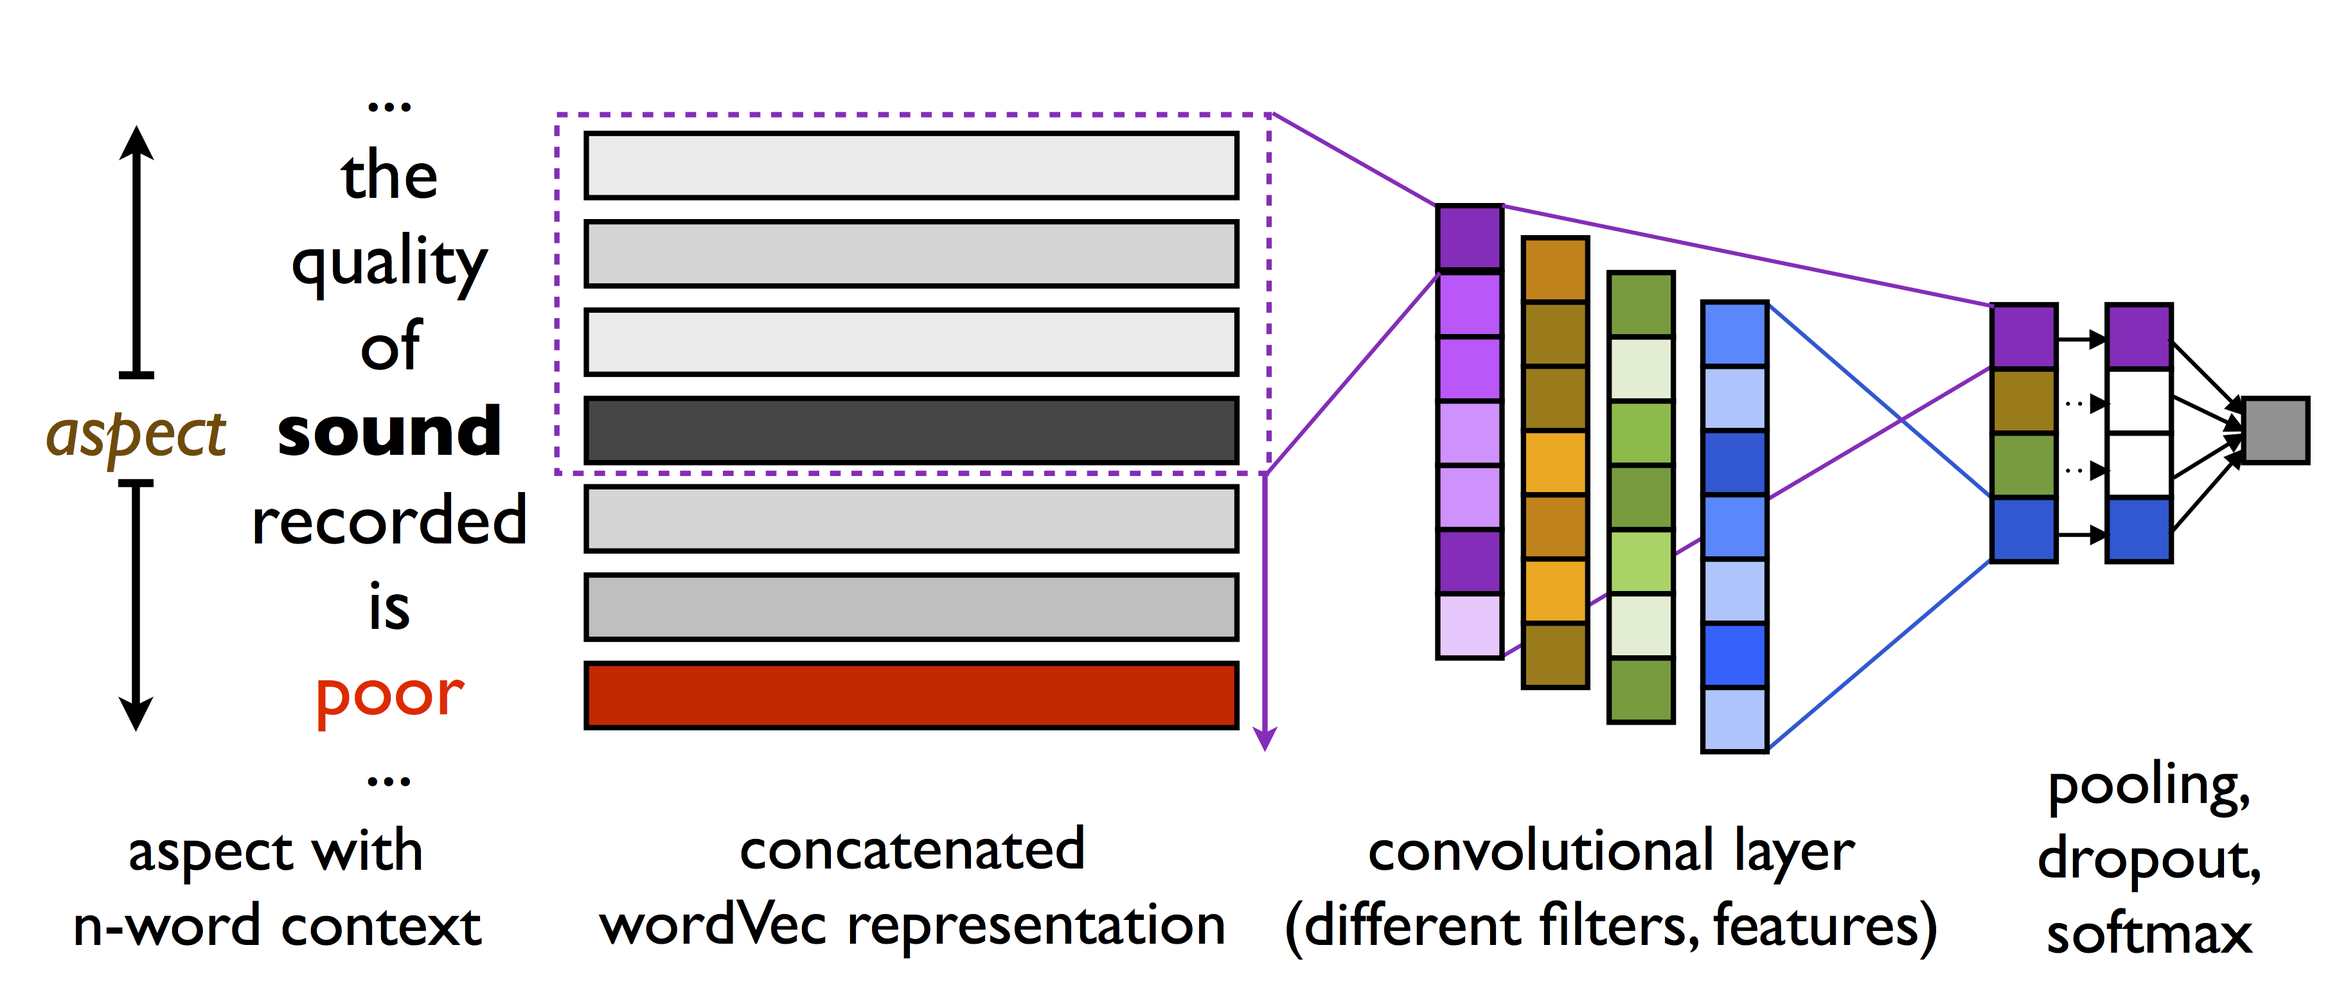
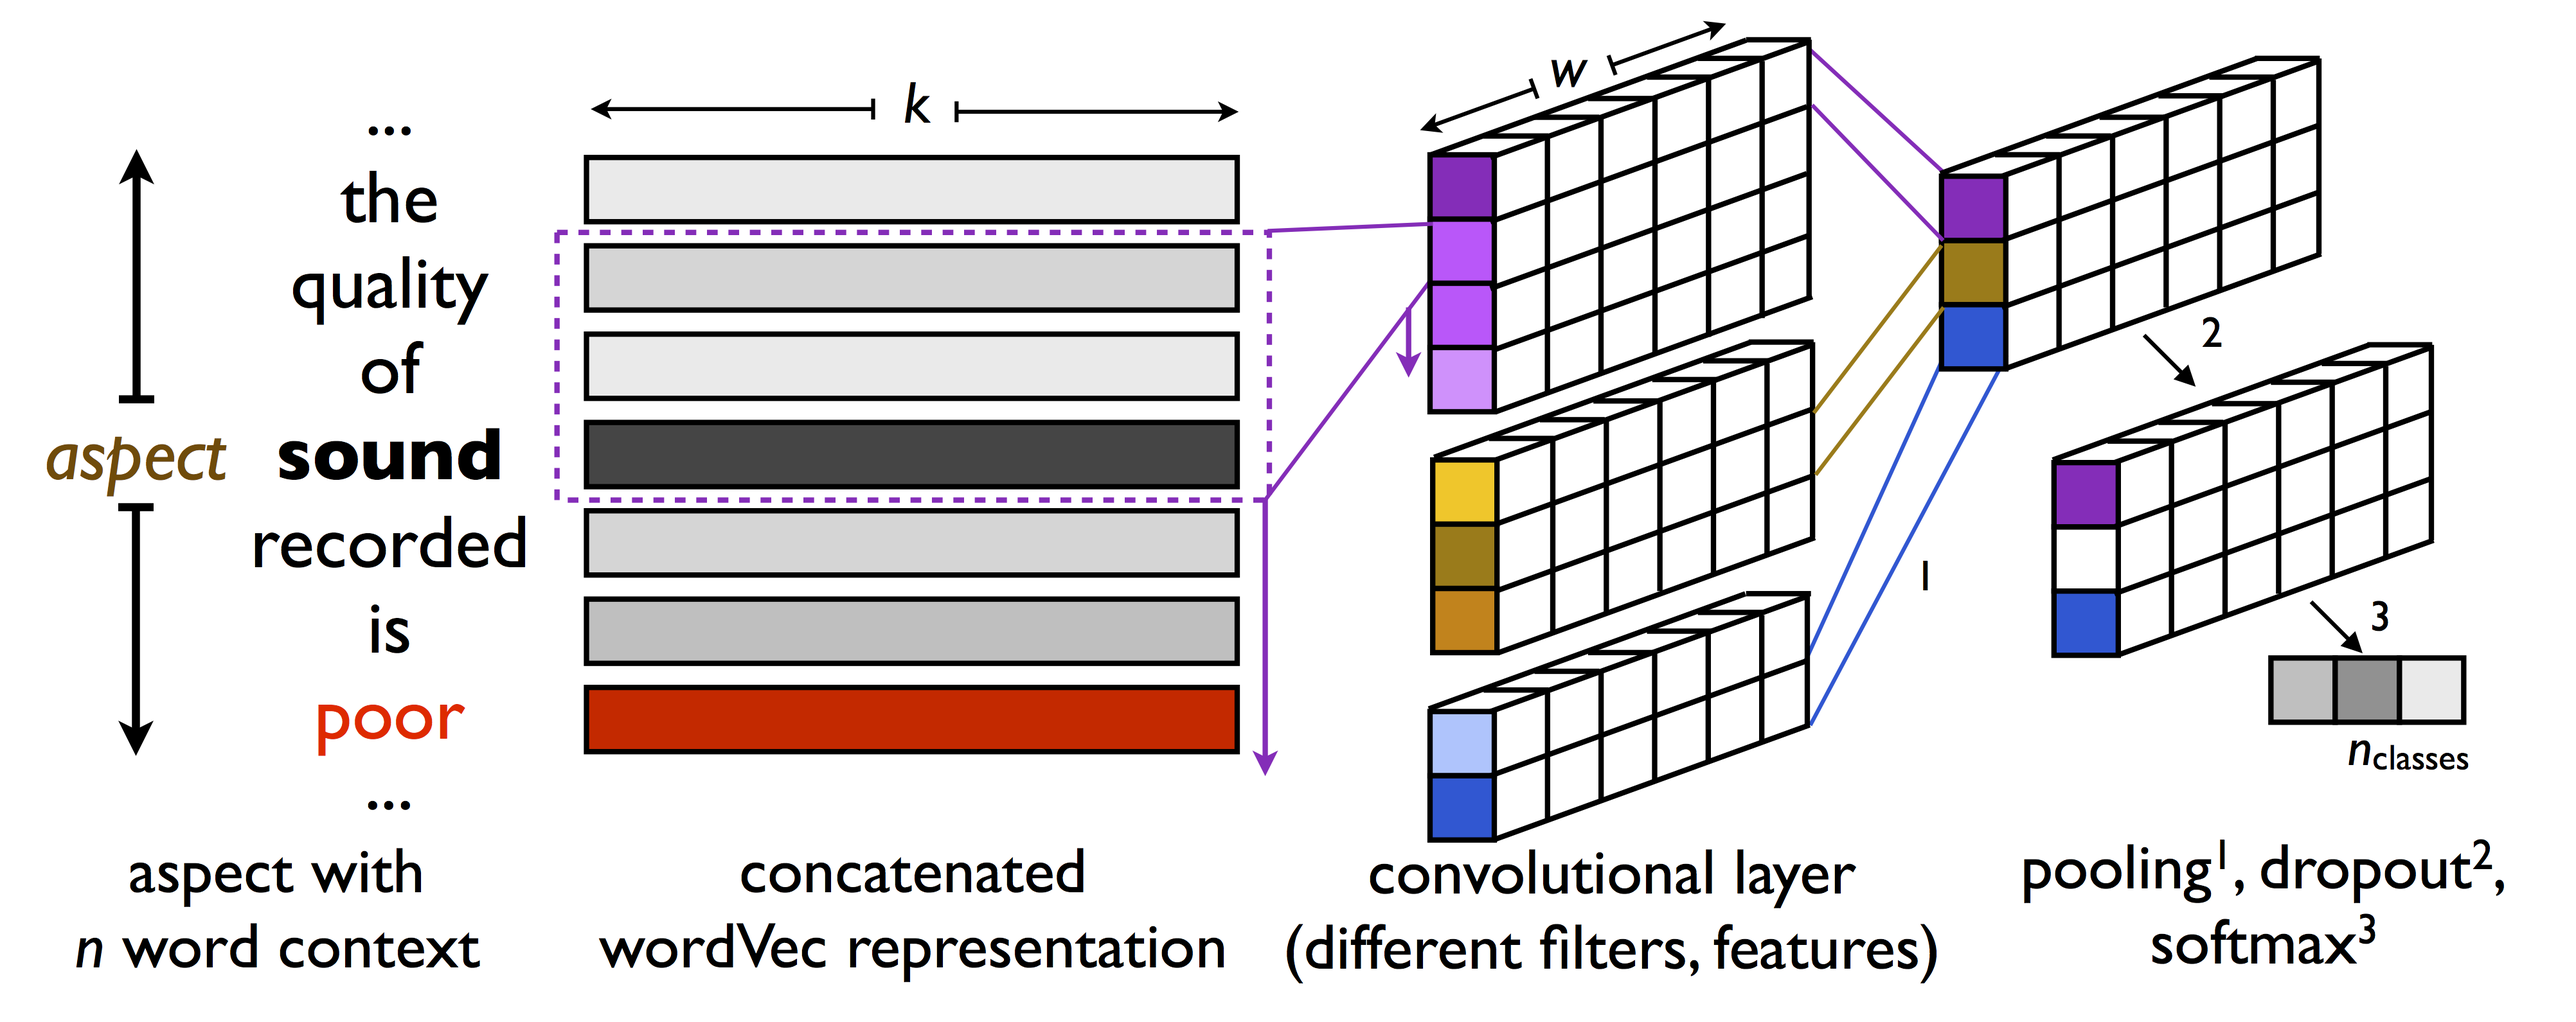
added to final writeup

diff --git a/final_writeup/final.tex b/final_writeup/final.tex
@@ -84,7 +84,7 @@ Our proposed workflow can be divided into two main parts: (unsupervised) {\bf As
 \begin{center}
 \includegraphics[width=.85\columnwidth]{workflow.png}
 \end{center}
-\caption{Proposed Workflow. Boxed items are processes, while non-boxed items are outputs. The left third of the diagram involves converting the reviews into a word vector representation, the middle third details unsupervised aspect discovery, while the right half of the diagram involves aspect-specific sentiment extraction, summarization and visualization.}% Except for the Sentiment Labeling and Visualization processes, every other process involves deep learning.}
+\caption{Proposed Workflow. We first use a word2vec representation to discover new aspects, and to identify aspects in the data. Next, we classify the sentiment of the surrounding context. This generates a labeled dataset on which we train a deep CNN to perform aspect-specific sentiment extraction.}% Except for the Sentiment Labeling and Visualization processes, every other process involves deep learning.}
 \label{workflow}
 \end{figure}
 
@@ -95,7 +95,7 @@ The first part of our workflow involves an unsupervised approach to generating a
 
 \subsubsection{Preprocessing.} We tokenized our corpus using NLTK's punkt tokenizer [9] for sentence splitting. We then removed all non-alphanumerical characters and replaced all digits with \texttt{DG}. Finally, we performed collocation detection to detect common bigrams. We run word2vec (CBOW, Skipgram) to obtain a word vector representation of the data (varying hyper parameters like window size). 
 
-\subsubsection{Seed words and discovery.} We handcrafted a small set of 50 seed attributes from reading a random sample of product reviews. We then used this seed words and our word2vec model representation to discover more via closest cosine similarity.
+\subsubsection{Seed words and discovery.} We handcrafted a small set of 63 seed attributes from reading a random sample of product reviews. We then used these seed aspects and our word2vec model representation to discover more aspects via closest cosine similarity.
 
 \subsubsection{NER Model?}
 
@@ -104,13 +104,12 @@ NER Model architecture
 
 \subsection{Aspect-Specific Sentiment Extraction}
 
-The second half of our workflow involved sentiment analysis given identified aspects. Our intuition for this part stems from locality: if there are multiple sentiment and multiple aspect words, then a good ``heuristic" would be that sentiment words closer to a particular aspect should be attributed to that aspect.
+The second half of our workflow involved sentiment analysis given identified aspects. Our intuition for this part stems from locality: if there are multiple sentiment and multiple aspect words within a sentence, then a good ``heuristic" would be that sentiment words closer to a particular aspect should be attributed to that aspect. Hence, models should be able to make use of local context to help in sentiment attribution.
 
-Convolutional Neural Network Model
+We decided upon a Convolutional Neural Network (CNN) Model based after Kim [10], who reported excellent results in sentence classification on many tasks, including sentiment analysis. We model our architecture, shown in Figure \ref{architecture} on [10].
 
-[10]
 
-An additional step would be to label all unigrams with a sentiment analysis lexicon (Bing Liu's sentiment lexicon) or the Sentiment pipeline in CoreNLP [7]. With the aspect-labels from the previous part, we would have a dataset labeled with aspect and (unigram-) sentiment. Next, we build off and improve on the model in [6]: we will use a RNTN or improved architecture to extract (aspect, aspect-specific sentiment) tuples from the data. Finally, we will have a summarization of aspect-related sentiment via visualization of our output, in terms of a word cloud of important aspects (e.g., sized by word frequency and colored by sentiment). 
+%An additional step would be to label all unigrams with a sentiment analysis lexicon (Bing Liu's sentiment lexicon) or the Sentiment pipeline in CoreNLP [7]. With the aspect-labels from the previous part, we would have a dataset labeled with aspect and (unigram-) sentiment. Next, we build off and improve on the model in [6]: we will use a RNTN or improved architecture to extract (aspect, aspect-specific sentiment) tuples from the data. Finally, we will have a summarization of aspect-related sentiment via visualization of our output, in terms of a word cloud of important aspects (e.g., sized by word frequency and colored by sentiment). 
 
 
 
@@ -119,80 +118,27 @@ An additional step would be to label all unigrams with a sentiment analysis lexi
 \begin{center}
 \includegraphics[width=\columnwidth]{model_architecture.png}
 \end{center}
-\caption{CNN Model Architecture.}
+\caption{CNN Model Architecture, modeled after Kim [10]. The input is an $n$ word context}
 \label{architecture}
 \end{figure}
 
 
 \section{Experimental Results} 
 
-\textbf{Dataset.} The dataset that we used consists of 7.6 million reviews of electronic products from Amazon.com [8]. These reviews comprise 39.4 million sentences. Each review is only labeled with the document-level 5 star rating (which we did not end up using). We focused our attention only on the raw natural language text, which is unlabeled.
+\textbf{Dataset.} The dataset that we used consists of 7.6 million reviews of electronic products from Amazon.com [8]. These reviews comprise 39.4 million sentences. Each review is only labeled with the document-level 5 star rating, which we did not end up using as it was too coarse. We focused our attention only on the raw natural language text, which is unlabeled.
 
 
+\subsection{Aspect Discovery Model Training} 
 
-\subsection{Aspect Discovery}
-
-results
-
-\subsubsection{NER Model?}
-
-NER Model results
-
-
-\subsection{Aspect-Specific Sentiment Extraction}
-
-
-
-
-An additional step would be to label all unigrams with a sentiment analysis lexicon (Bing Liu's sentiment lexicon) or the Sentiment pipeline in CoreNLP [7]. With the aspect-labels from the previous part, we would have a dataset labeled with aspect and (unigram-) sentiment. Next, we build off and improve on the model in [6]: we will use a RNTN or improved architecture to extract (aspect, aspect-specific sentiment) tuples from the data. Finally, we will have a summarization of aspect-related sentiment via visualization of our output, in terms of a word cloud of important aspects (e.g., sized by word frequency and colored by sentiment). 
-
-
-
-\subsection{Model Training} We trained three different word2vec models. The most successful model was trained using the CBOW (continuous bag-of-words) model with a window size of 10 and feature dimension size of 300. We also ignored all words with total frequency count below 40 (this helped to remove many typos). We determined the performance of each model by querying the model with various aspects common to electronic products (e.g. "portability", "screen quality", etc).
+We trained three different word2vec models. The most successful model was trained using the CBOW (continuous bag-of-words) model with a window size of 10 and feature dimension size of 300. We also ignored all words with total frequency count below 40 (this helped to remove many misspellings). We determined the performance of each model by querying the model with various aspects common to electronic products (e.g. "portability", "screen quality", etc).
 
 \subsection{word2vec Results}
-
-
-%\begin{table}[h]
-%\begin{center}
-%\scalebox{0.7}{
-%    \begin{tabular}{ | l | p{9cm} |}
-%    \hline
-%    Query & Results \\ \hline
-%    \texttt{portability} & \texttt{(u'portability,', 0.72859996557235718), (u'compactness', 0.64743077754974365), (u'mobility', 0.60842603445053101), (u'versatility', 0.5763777494430542), (u'simplicity', 0.53962129354476929), (u'lightness', 0.53950369358062744), (u'convenience', 0.53897607326507568), (u'ruggedness', 0.5272858738899231), (u'versatility,', 0.5055851936340332), (u'thinness', 0.49253776669502258)} \\ \hline
-%
-%	\texttt{contrast} & \texttt{(u'contrast,', 0.65686732530593872), (u'sharpness', 0.62712550163269043), (u'color\_saturation', 0.60933655500411987), (u'saturation', 0.57076853513717651), (u'brightness', 0.5553707480430603), (u'gamma', 0.53090476989746094), (u'shadow\_detail', 0.52805298566818237), (u'color\_accuracy', 0.52408510446548462), (u'dynamic\_range', 0.52167940139770508), (u'black\_levels', 0.51741272211074829)} \\ \hline
-%
-%	\texttt{tripod} & \texttt{(u'monopod', 0.74430769681930542), (u'tripod,', 0.71975594758987427), (u'ball\_head', 0.70861411094665527), (u'tripods', 0.68399727344512939), (u'ballhead', 0.60356354713439941), (u'manfrotto', 0.59598124027252197), (u'monopod,', 0.58229464292526245), (u'pole', 0.56997144222259521), (u'quick\_release', 0.549965500831604), (u'cold\_shoe', 0.5460544228553772)} \\ \hline
-%    \end{tabular}
-%}
-%\end{center}
-%\caption{Preliminary Results from word2vec model}
-%\end{table}
-
-
-%\begin{table}[h]
-%\begin{center}
-%\scalebox{0.8}{
-%    \begin{tabular}{ |c| p{5cm} | p{5cm} | p{5cm} | }
-%    \hline
-%    Query &\texttt{portability}  & \texttt{contrast}  & \texttt{tripod}  \\
-%    \hline
-%    Results & \texttt{(u'portability,', 0.72859996557235718), (u'compactness', 0.64743077754974365), (u'mobility', 0.60842603445053101), (u'versatility', 0.5763777494430542), (u'simplicity', 0.53962129354476929), (u'lightness', 0.53950369358062744), (u'convenience', 0.53897607326507568), (u'ruggedness', 0.5272858738899231), (u'versatility,', 0.5055851936340332), (u'thinness', 0.49253776669502258)} & 
-%     \texttt{(u'contrast,', 0.65686732530593872), (u'sharpness', 0.62712550163269043), (u'color\_saturation', 0.60933655500411987), (u'saturation', 0.57076853513717651), (u'brightness', 0.5553707480430603), (u'gamma', 0.53090476989746094), (u'shadow\_detail', 0.52805298566818237), (u'color\_accuracy', 0.52408510446548462), (u'dynamic\_range', 0.52167940139770508), (u'black\_levels', 0.51741272211074829)}  & 
-%     \texttt{(u'monopod', 0.74430769681930542), (u'tripod,', 0.71975594758987427), (u'ball\_head', 0.70861411094665527), (u'tripods', 0.68399727344512939), (u'ballhead', 0.60356354713439941), (u'manfrotto', 0.59598124027252197), (u'monopod,', 0.58229464292526245), (u'pole', 0.56997144222259521), (u'quick\_release', 0.549965500831604), (u'cold\_shoe', 0.5460544228553772)} \\
-%    \hline
-%    \end{tabular}
-%}
-%\end{center}
-%\caption{Preliminary Results from word2vec model}
-%\end{table}
 
 \begin{figure}[ht]
 \begin{center}
 \includegraphics[width=\columnwidth]{Aspects_long.png}
 \end{center}
-\caption{Aspects.}
+\caption{Aspects Discovery. Word clouds generated by seeding \texttt{portability} (left), \texttt{contrast} (middle), and \texttt{tripod} (right). Words are sized according to cosine similarity with the seed word.}
 \label{aspectFig}
 \end{figure}
 
@@ -200,33 +146,13 @@ We queried our word2vec model and returned the top-$n$ results based on cosine s
 
 As shown in Fig. \ref{aspectFig}, words like \texttt{portability} returned many synonyms as well as product aspects that are related to it (e.g. \texttt{ruggedness} and \texttt{simplicity}). Our model is also capable of returning aspects that are specific and unique to the product category it is trained on. In this case of electronic products, a query like \texttt{contrast} returned words like \texttt{shadow\_detail}, \texttt{dynamic\_range}, \texttt{black\_levels} and \texttt{gamma}, which are aspects specific to devices like monitor displays and cameras. Finally, the query \texttt{tripod} returned various aspects of camera tripods, many of them being features that are non-obvious to the layperson. For instance, \texttt{ball\_head} refers to a type of ball-shaped tripod head that allows free-pivoting along two rotational axes (as opposed to Cartesian axes), and \texttt{quick\_release} refers to tripod mounts that come with a quick-release plate. Many of these queries would otherwise perform poorly if performed on lexical databases like WordNet.
 
-%We can evaluate the attribute sentiments against the formal ratings provided by CNET or consumer reports. An aggregation of sentiment for individual reviews can also be compared against a user�s overall rating of the product.
-%We can evaluate the attribute clustering using standard cluster metrics. A projection to a 2-D space for visualization would also be valuable.
+
+\subsubsection{NER Model?}
+
+NER Model results
 
 
-%\begin{figure}[h]
-%\begin{center}
-%%\framebox[4.0in]{$\;$}
-%\fbox{\rule[-.5cm]{0cm}{4cm} \rule[-.5cm]{4cm}{0cm}}
-%\end{center}
-%\caption{Sample figure caption.}
-%\end{figure}
-
-%\begin{table}[t]
-%\caption{Sample table title}
-%\label{sample-table}
-%\begin{center}
-%\begin{tabular}{ll}
-%\multicolumn{1}{c}{\bf PART}  &\multicolumn{1}{c}{\bf DESCRIPTION}
-%\\ \hline \\
-%Dendrite         &Input terminal \\
-%Axon             &Output terminal \\
-%Soma             &Cell body (contains cell nucleus) \\
-%\end{tabular}
-%\end{center}
-%\end{table}
-
-
+\subsection{Aspect-Specific Sentiment Extraction}
 
 
 % Socher's model (down the rows) vs. human labels. So there were 16 instances that human says 2 and model says 1.
@@ -239,22 +165,25 @@ As shown in Fig. \ref{aspectFig}, words like \texttt{portability} returned many 
 %5			0		0		9		65		16		90
 %			428		1171		2440		1233		728		6000
 
+As our data was entirely unlabeled, we initially attempted to bootstrap training of our CNN model using labels obtained from other trained sentiment-analysis models. We felt, however, that this would be a major limitation, as we would have labels of uncertain quality and accuracy (we discuss this more below). Hence, to properly evaluate our approach, we decided to hand label some data and use a semi-supervised approach to build a larger model. Unfortunately we did not complete our ambitious, semi-supervised goal. Below, we report our quantitative evaluation.
 
-\subsection{Quantitative evaluation of sentiment}
+Using the first model developed above, we extracted 6,000 examples which consisted of an identified aspect, surrounded by a context of 5 words on either side. We padded these phrases with sentence start and end tags, and with zero vectors. Next, we hand-labeled these 6,000 examples on a 5 point scale, corresponding to Very Negative, Negative, Neutral, Positive, and Very Positive. 
 
-We hand-labeled 6,000 examples that we 
+We trained our CNN on this dataset, using a 10-fold cross validation strategy and reporting on a 10\% test set. The results are given in Table \ref{ModelResultsTable}. The CNN, with <hyperparameters FIXME> achieved an accuracy of FIXME on the 5 class classification, and, if we combined the classes to a coarser, 3 class (Positve, Neutral, Negative) task, achieved an accuracy of FIXME.
 
-Using Socher et al (2013)'s model, trained on 
+Next, we sought to test our original idea of ``bootstrapping" labels using existing pre-trained models. On the one hand, there are models that are trained on much larger amounts of labeled data, sometimes even down to the unigram level, e.g. Socher et al [7]. On the other hand, these models are often trained on other domains ([7] was trained on movie reviews), and it is still an open question as to the degree of cross-domain transfer. To test this, we ran the Stanford CoreNLP Sentiment Annotator [7], which also outputs 5 classes, on our 6,000 labeled examples. The 5-class accuracy was 42.3\%, while the coarser 3 class accuracy was 51.1\%.
+
+We must be upfront and say that our point of performing this was \textbf{not} to use [7] as a baseline for comparison: indeed, it was trained out of domain, while our model was trained within domain. (Note, however, that [7] reported a test accuracy within their own dataset of 45.7\% on a 5 class task, and 85.4\% on a 2 class (positive/negative) task, so at least the first result is comparable to what we found.) Rather, we performed this analysis to gauge the upper limit on our model's reliability if it were only trained using labels obtained from out-of-domain pre-trained models (which, this analysis shows, has ~50\% accuracy with respect to a labeled gold standard on a 5 class task).
 
 \begin{table}[t]
 \begin{center}
 \begin{tabular}{lll}
-\multicolumn{1}{c}{\bf Model}  &\multicolumn{1}{c}{\bf 3-class Accuracy} &\multicolumn{1}{c}{\bf 5-class Accuracy} \\ \hline
+\multicolumn{1}{c}{\bf Sentiment Model}  &\multicolumn{1}{c}{\bf 3-class Accuracy} &\multicolumn{1}{c}{\bf 5-class Accuracy} \\ \hline
  Our CNN\textsuperscript{1} & 79.4\% \textbf{(FIXME)} & 64\% \textbf{(FIXME)} \\
- Socher et al (2013)\textsuperscript{2}       & 51.1\% & 42.3\% \\
+ Pre-trained out-of-domain RNTN [7]\textsuperscript{2}       & 51.1\% & 42.3\% \\
 \end{tabular}
 \end{center}
-\caption{Accuracies for different models. \textsuperscript{1} was trained}
+\caption{Accuracies for different models. \textsuperscript{1} was trained }
 \label{ModelResultsTable}
 \end{table}
 
@@ -275,10 +204,19 @@ One problem with aspect-specific sentiment analysis in product reviews is that m
 
 
 
+word cloud
+size = frequency of aspect over several reviews
+color = valence
+
+\section{Discussion}
+
+Even our mediocre labeling (6000 examples) was comparable with many existing datasets out there (e.g. the Beer Advocate dataset and Camera Review dataset reported in [6] had about 8,000 and 4,000 labeled sentences respectively).
+
 \section{Conclusion}
 
 conclusion
 
+cost efficient, time consuming
 
 
 
@@ -322,7 +260,7 @@ We would like to acknowledge funding for computing resources provided by the Dee
 
 [9] Bird, Steven, Loper, E. and Klein, E. (2009). Natural Language Processing with Python. O'Reilly Media Inc.
 
-[10] Kim, Y. (2014). Convolutional neural networks for sentence classification. arXiv preprint arXiv:1408.5882.
+[10] Kim, Y. (2014). Convolutional neural networks for sentence classification. EMNLP.
 
 %% this paper isn't that relevant. it's an evaluation system.
 %[2] Ward, C. B., Choi, Y., Skiena, S., \& Xavier, E. C. (2011). Empath: A framework for evaluating entity-level sentiment analysis. In {\it Emerging Technologies for a Smarter World (CEWIT), 2011 8th International Conference \& Expo}. (pp. 1-6). IEEE.
